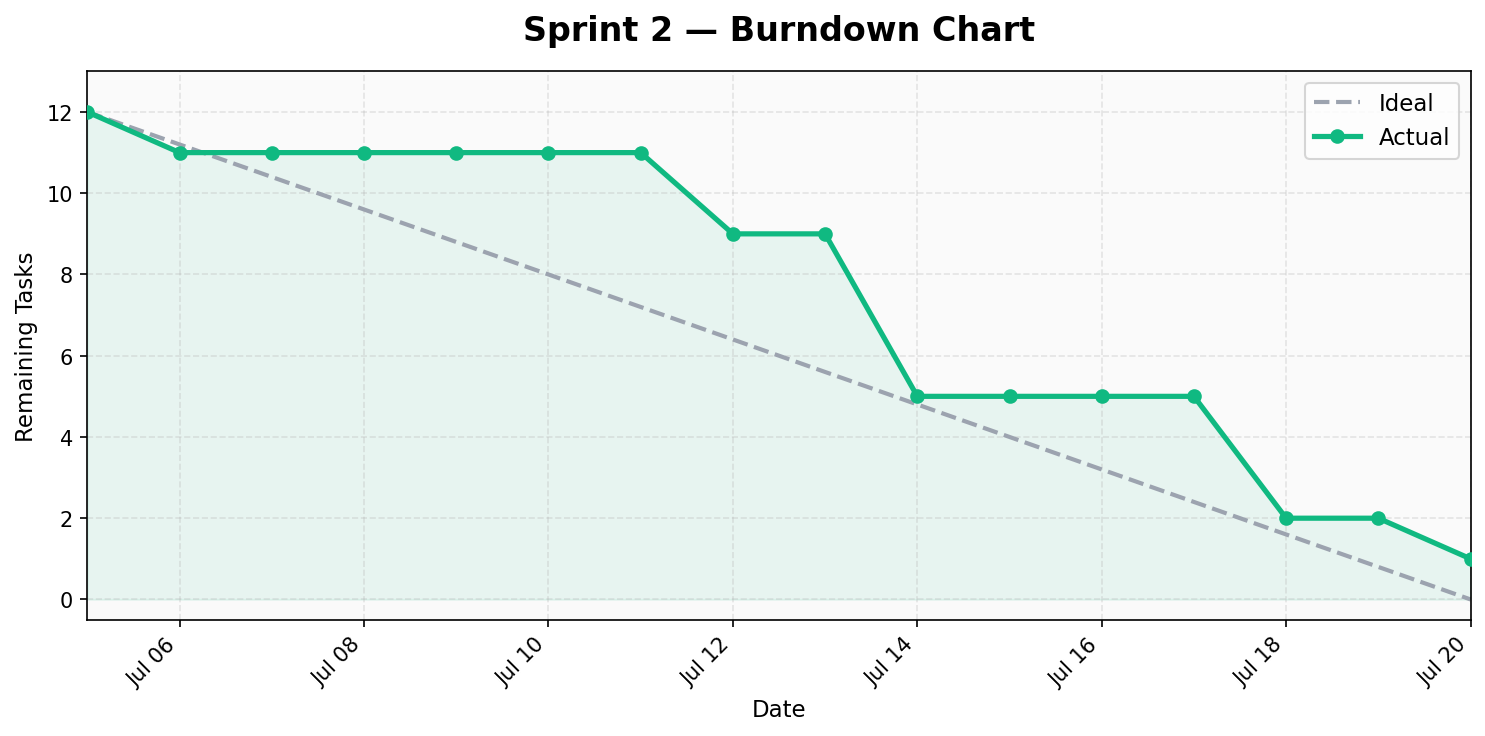
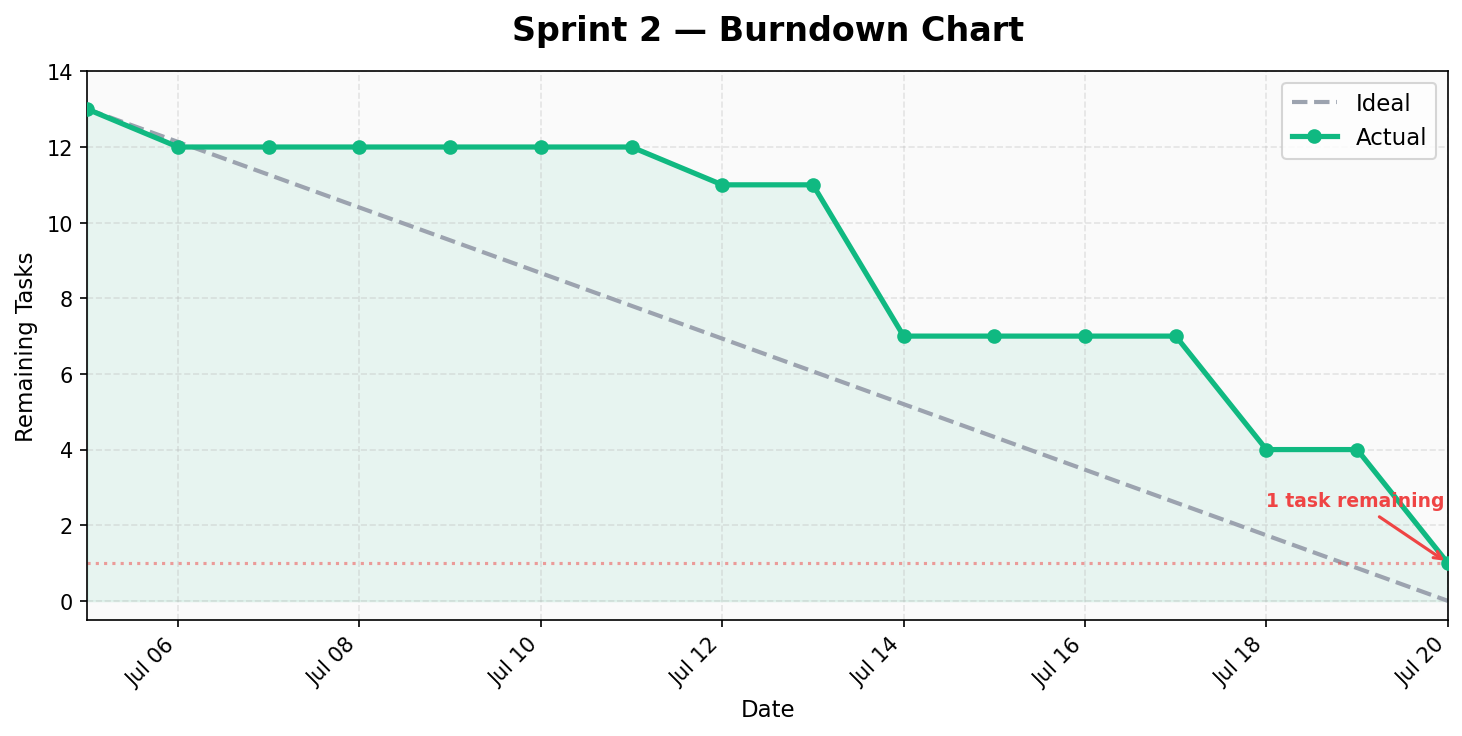
revise readme

diff --git a/README.md b/README.md
@@ -345,10 +345,10 @@ cards
   * AI-assisted pair programming continued via _`Kiro`_.
 
 - **Expected point completion within Sprint:**
-  * `12` tasks
+  * `13` tasks — `12` completed, `1` remaining (Task 6: Generate real images for lessons)
 
 - **Point Completion Logic:**
-  * Sprint 2 focused on interactivity, content expansion, and gamification elements. The core fill-blank exercise flow, vocabulary bank, score tracking, and mobile responsiveness were delivered. Speech recognition was stubbed but deferred.
+  * Sprint 2 focused on interactivity, content expansion, and gamification elements. 12 out of 13 tasks were delivered. Task 6 (replacing placeholder images with real contextual visuals) was deferred to Sprint 3 due to time constraints.
 
 - **Sprint Review:**
   * Fill-the-blank interactive input is functional: template parsing, input validation, shake animation on error, answer reveal after 2 failed attempts.